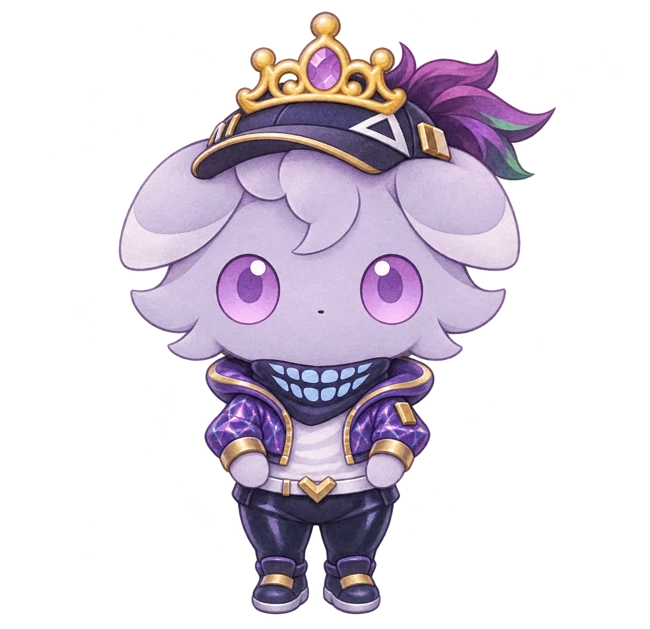
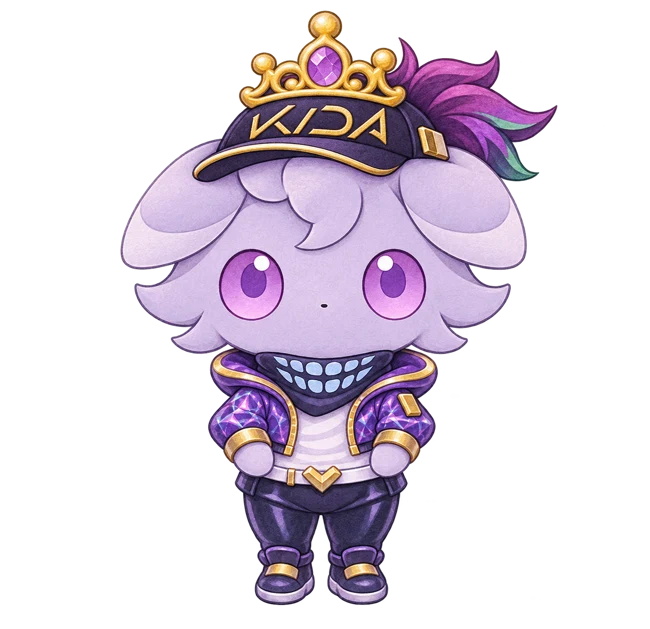
Add files via upload

Changed region(s): [[0.1846, 0.0, 0.8615, 0.9968], [0.4923, 0.4833, 0.5231, 0.5135]]

diff --git a/public/carnival.html b/public/carnival.html
@@ -12,5 +12,5 @@
 </div></section>
 <section class="scrapbook-teaser"><div><p class="eyebrow" data-copy="scrapbook.eyebrow">52 WEEKS OF US</p><h2 data-copy="scrapbook.title">My favorite moments have you in them.</h2><p id="latest-note" data-copy="scrapbook.intro"></p></div><a class="button soft" href="journal.html" data-copy="scrapbook.open">Read our scrapbook ♡</a></section>
 <section class="collection-panel"><div class="section-head"><h2 data-copy="collection.title">Her little collection</h2><span id="collection-total">0 / 19</span></div><p class="section-copy" data-copy="collection.intro"></p><div id="collection" class="collection inventory-grid"></div></section>
-<section class="save-panel"><p id="save-status" role="status">Opening your carnival…</p><div class="backup-actions"><button class="text-button" id="export-save" data-copy="backup.download">Download save backup</button><button class="text-button" id="import-trigger" data-copy="backup.restore">Restore a backup</button><input id="import-save" type="file" accept="application/json,.json" hidden><button id="sync-retry" class="text-button" hidden>Reload account save</button></div><p id="backup-status" role="status"></p></section><section id="test-tools" class="save-panel" hidden><p class="eyebrow">TEMPORARY TESTING TOOLS</p><p>These controls change the current save, including its cloud copy when connected. Download a backup first.</p><div class="backup-actions"><button id="test-reset" class="text-button">Reset progress for testing</button><button id="test-unlock" class="text-button">Unlock everything for testing</button></div><p id="test-status" role="status"></p></section><footer data-copy="site.footer">For Nayleen. A little place I made because I love you. ♡</footer>
+<section class="save-panel"><p id="save-status" role="status">Opening your carnival…</p><div class="backup-actions" id="save-controls" hidden><button class="text-button" id="export-save" data-copy="backup.download">Download save backup</button><button class="text-button" id="import-trigger" data-copy="backup.restore">Restore a backup</button><input id="import-save" type="file" accept="application/json,.json" hidden><button id="sync-retry" class="text-button" hidden>Reload account save</button></div><p id="backup-status" role="status"></p></section><section id="test-tools" class="save-panel" hidden><p class="eyebrow">TEMPORARY TESTING TOOLS</p><p>These controls change the current save, including its cloud copy when connected. Download a backup first.</p><div class="backup-actions"><button id="test-reset" class="text-button">Reset progress for testing</button><button id="test-unlock" class="text-button">Unlock everything for testing</button></div><p id="test-status" role="status"></p></section><footer data-copy="site.footer">For Nayleen. A little place I made because I love you. ♡</footer>
 </main><div id="unlock-toast" class="unlock-toast" role="status" hidden></div><dialog id="game-dialog" aria-labelledby="game-title"><button id="game-close" class="close" aria-label="Close game">×</button><p class="eyebrow">A LITTLE CARNIVAL MOMENT</p><h2 id="game-title"></h2><div id="game-body"></div><p id="game-result" role="status"></p></dialog></body></html>

diff --git a/public/assets/js/carnival.js b/public/assets/js/carnival.js
@@ -18,7 +18,7 @@ function close() { dialog.close(); }
 $('game-close').onclick = close;
 function render(s, event = {}) {
     $('save-status').textContent = event.status || store.status;
-    $('sync-retry').hidden = STATIC || (!store.conflict && (store.online && !store.dirty || !store.ready));
+    $('sync-retry').hidden = window.CARNIVAL_CONFIG?.saveTools !== true || STATIC || (!store.conflict && (store.online && !store.dirty || !store.ready));
     const week = weekNumber(), pending = s.weeklyBox && !s.weeklyBox.revealed, claimed = s.weeklyClaims.includes(week);
     $('weekly-label').textContent = t('weekly.eyebrow', { week: String(pending ? s.weeklyBox.week : week).padStart(2, '0') });
     $('weekly-copy').textContent = t(pending ? 'weekly.resumeCopy' : claimed ? 'weekly.doneCopy' : 'weekly.intro');
@@ -168,6 +168,7 @@ $('import-save').onchange = async (event) => { const file = event.target.files[0
 catch (error) {
     $('backup-status').textContent = error.message || 'Your backup couldn’t be read. Your progress hasn’t changed.';
 } };
+$('save-controls').hidden = window.CARNIVAL_CONFIG?.saveTools !== true;
 $('test-tools').hidden = window.CARNIVAL_CONFIG?.testingTools !== true;
 $('test-reset').onclick = () => {
     open('Reset this testing save?'); p('This clears outfits, collections, scores, crunches, and weekly limits for the current browser/profile. Download a backup first.');

diff --git a/public/assets/js/game-rules.js b/public/assets/js/game-rules.js
@@ -5,7 +5,7 @@ export const PRIZES = [
     ['sunday', 'Sunday plushie'], ['bunny', 'Sleepy bunny'], ['duck', 'Little duck'], ['akali', 'Akali plushie'], ['pokemon', 'Pokémon card pack'],
     ['pterodactyl', 'Pterodactyl plushie'], ['gambit', 'Maid Gambit figure'], ['lilies', 'Lily-of-the-valley bouquet'], ['mew', 'Bubble Mew card'], ['coach', 'Coach bag'],
     ['blondie', 'Blondie coffee'], ['rafayel', 'Rafayel plushie'], ['stitch', 'Stitch plushie'], ['mitski', 'Mitski record']
-].map(([id, name]) => ({ id, name, image: id === 'espurr' ? 'assets/images/espurr-princess.webp' : id === 'peanut' ? 'assets/images/crunchy-peanut.svg' : `assets/images/collectibles/${id}.svg` }));
+].map(([id, name]) => ({ id, name, image: id === 'espurr' ? 'assets/images/espurr-princess.webp' : `assets/images/collectibles/${id}.${['pokemon','gambit','mew','stitch'].includes(id) ? 'svg' : 'webp'}` }));
 export const OUTFITS = [
     { id: 'royal', name: 'My little princess', hint: 'Yours from the beginning', icon: '♛', image: 'assets/images/espurr-princess.webp' },
     { id: 'sunday', name: 'Sunday’s little angel', hint: 'Reach a best card-table score of 200', icon: '☀', image: 'assets/images/outfits/sunday.webp' },

diff --git a/public/assets/js/espurr-renderer.js b/public/assets/js/espurr-renderer.js
@@ -125,7 +125,7 @@ function drawPrincessEspurr(c, p, time, outfit = 'royal', repairing = false) {
     }
     if (outfit === 'kda') {
         path([[-22,-58],[-19,-68],[10,-70],[19,-62],[28,-58],[2,-57]], '#302a48', '#c8a868');
-        path([[9,-68],[2,-63],[9,-62]], '#e6e1ef');
+        c.save();c.translate(0,-62);c.scale(.55,.55);c.fillStyle='#e4c17c';c.font='bold 11px sans-serif';c.textAlign='center';c.fillText('K/DA',0,0);c.restore();
     }
     // Gold crown and lavender ribbon match her portrait.
     c.save();

diff --git a/public/settings.js b/public/settings.js
@@ -1,2 +1,7 @@
-// Set testingTools to false before gifting. The login code belongs only in Vercel environment variables.
-window.CARNIVAL_CONFIG = {mode:'code', testingTools:true};
+// GitHub: toggle these display options, commit, and let Vercel redeploy.
+// No login codes or database secrets belong in this public file.
+window.CARNIVAL_CONFIG = {
+  mode: 'code',
+  saveTools: false,
+  testingTools: false
+};

diff --git a/UPDATE-IN-GITHUB.md b/UPDATE-IN-GITHUB.md
@@ -1,0 +1,46 @@
+# Apply the art and settings update
+
+Use a `testing` branch first, then merge into `main` when you like the preview. One Vercel project can deploy both branches: `main` is Production, other branches are Preview. GitHub sends changes to Vercel; Vercel does not upload your edits back into GitHub.
+
+The small Art-and-Settings Update ZIP contains only the website files changed in this update. Upload its `public` folder contents at the same paths in your existing repository. Keep the folder structure. It does not include or overwrite your personalized `public/content` text or your server secrets. The full Vercel ZIP also contains the updated artwork for future installs.
+
+## Hide or show the controls
+
+Open `public/settings.js` in GitHub and edit:
+
+```js
+window.CARNIVAL_CONFIG = {
+  mode: 'code',
+  saveTools: false,
+  testingTools: false
+};
+```
+
+- `saveTools: false` hides Download save backup, Restore a backup, and Reload account save.
+- `testingTools: false` hides Reset progress and Unlock everything.
+- Change a flag to `true` to show those controls again, then commit and wait for deployment.
+- Automatic saving and the quiet save-status message remain active when the buttons are hidden.
+- Sign out remains available at the bottom; it does not delete progress.
+
+Keep an occasional backup yourself. Cloud saving is convenient, but an extra copy helps if a save is reset by mistake. If syncing reports a conflict, you can temporarily enable `saveTools` and use Reload account save after saving a recovery backup. The testing controls are convenience buttons, not an admin security boundary.
+
+## Where to change words
+
+| Text | File |
+| --- | --- |
+| Main headings, personal message, game descriptions, outfit and item names, most labels | `public/content/site-text.json` |
+| Weekly memories and emojis | `public/content/weekly-notes.json` |
+| Remaining card/blind-box dialog sentences and testing dialog text | `public/assets/js/carnival.js` |
+| Remaining maze messages, tutorial dialog and action labels | `public/assets/js/manor-game.js` and `public/escape.html` |
+| Remaining peanut status and sound labels | `public/assets/js/peanut-factory.js` and `public/peanut.html` |
+| Login wording | `public/assets/js/code-login.js` |
+| Save/sync status wording | `public/assets/js/save-manager.js` |
+| Remaining scrapbook status/date labels | `public/assets/js/scrapbook.js` |
+
+Change ordinary wording in the JSON first. Keep keys, braces, commas, and {{placeholders}}. In advanced JavaScript edits change only the displayed strings, preserving IDs and logic. The layout wraps ordinary text changes, but check very long wording in the phone preview.
+
+## Data and deployment
+
+Changing images, headings, and these display flags does not reset database saves. This update preserves collectible/outfit IDs and save format. It requires no new SQL and no environment-variable changes.
+
+The testing code opens a separate save; the testing branch opens a separate version of the website. Preview and Production can still use the same Supabase project, so do not run schema-changing experiments on the shared database without planning them separately.

diff --git a/public/EDIT-ME-FIRST.md b/public/EDIT-ME-FIRST.md
@@ -52,3 +52,7 @@ Do not rename item IDs, outfit IDs, or file paths just to change visible names. 
 ## Temporary testing buttons
 
 Set `testingTools: false` in root `settings.js` before gifting. While true, the main page offers reset and unlock-all dialogs. Reset clears this browser/profile’s progress, including weekly limits, and syncs the reset when a backend is connected. Unlock-all marks the four outfit goals complete and adds all collectibles; it does not consume the weekly games. These are testing conveniences, not secure admin controls.
+
+## Save button visibility
+
+In this Vercel edition edit `public/settings.js` in GitHub. `saveTools: false` hides backup/restore/reload controls; `testingTools: false` hides reset/unlock controls. Both are hidden in this version. Set a flag to true and commit to show its controls again. See root UPDATE-IN-GITHUB.md for all text file locations.

diff --git a/README.md b/README.md
@@ -113,3 +113,7 @@ Official references: https://vercel.com/pricing ; https://supabase.com/pricing ;
 - Too many tries: wait one minute; the server limits attempts per network address.
 - Wrong progress: sign out, then use the intended profile’s code. Main and testing are labeled separately.
 - GitHub Pages URL: that separate ZIP is browser-only; use the Vercel edition and URL for code-based cloud saves.
+
+## New art and control visibility
+
+See UPDATE-IN-GITHUB.md for the artwork-only update, text locations, branch workflow, and the saveTools/testingTools settings. Both tools are now hidden by default; automatic saving remains active.

diff --git a/START-HERE-VERCEL.md b/START-HERE-VERCEL.md
@@ -113,3 +113,7 @@ Official references: https://vercel.com/pricing ; https://supabase.com/pricing ;
 - Too many tries: wait one minute; the server limits attempts per network address.
 - Wrong progress: sign out, then use the intended profile’s code. Main and testing are labeled separately.
 - GitHub Pages URL: that separate ZIP is browser-only; use the Vercel edition and URL for code-based cloud saves.
+
+## New art and control visibility
+
+See UPDATE-IN-GITHUB.md for the artwork-only update, text locations, branch workflow, and the saveTools/testingTools settings. Both tools are now hidden by default; automatic saving remains active.
